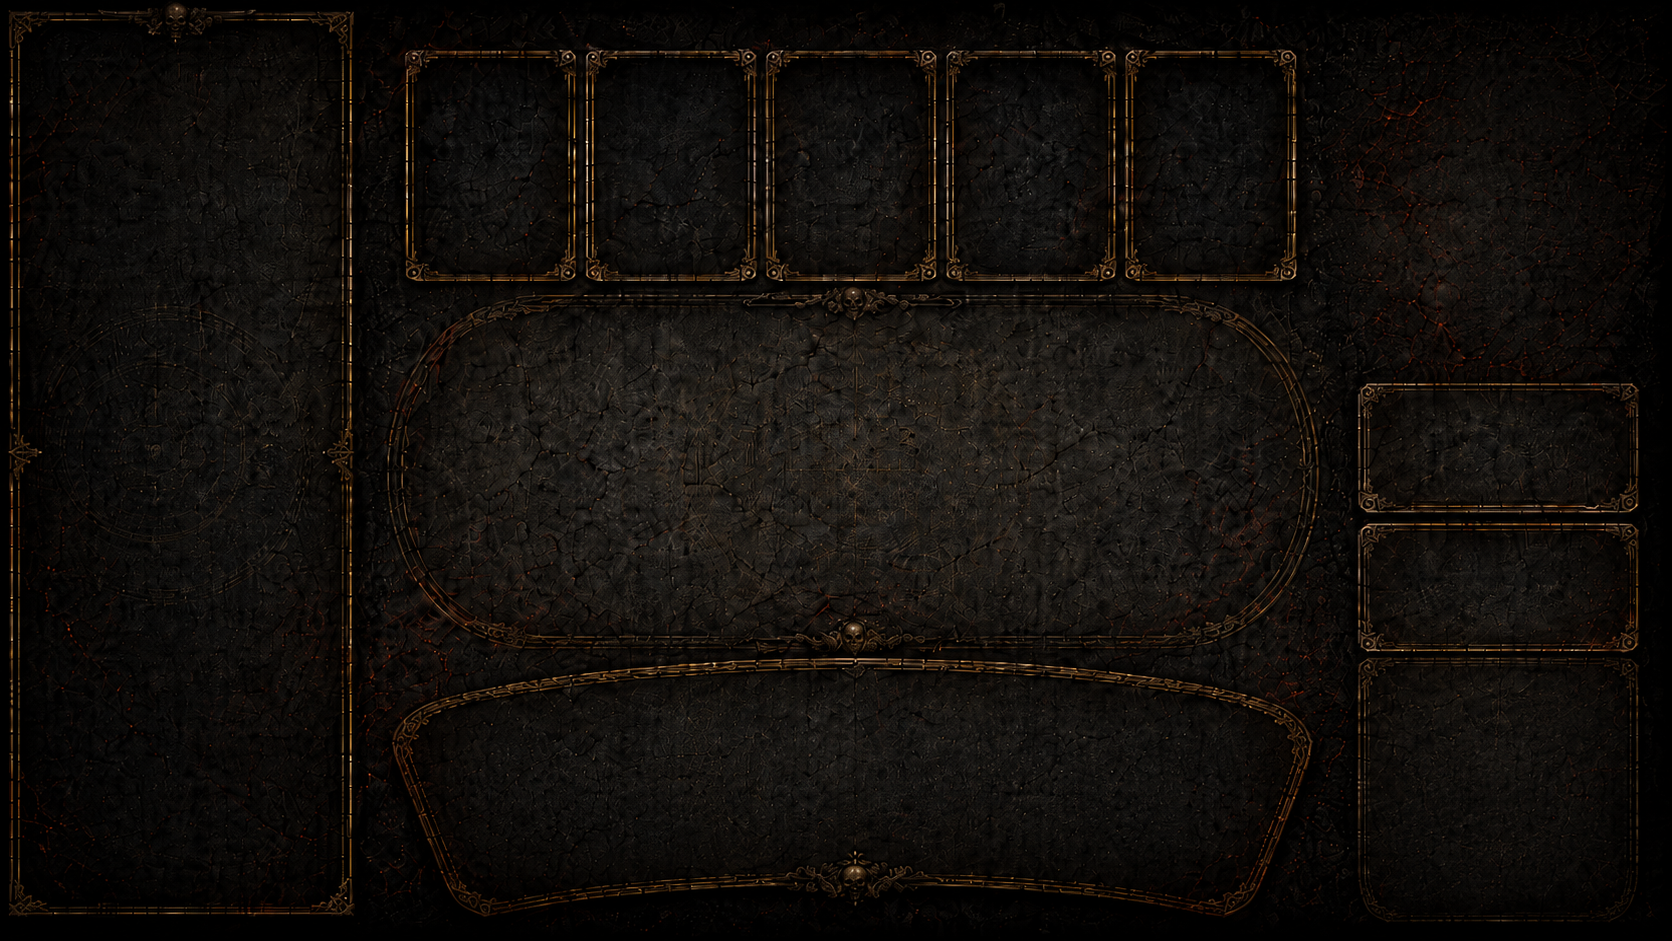
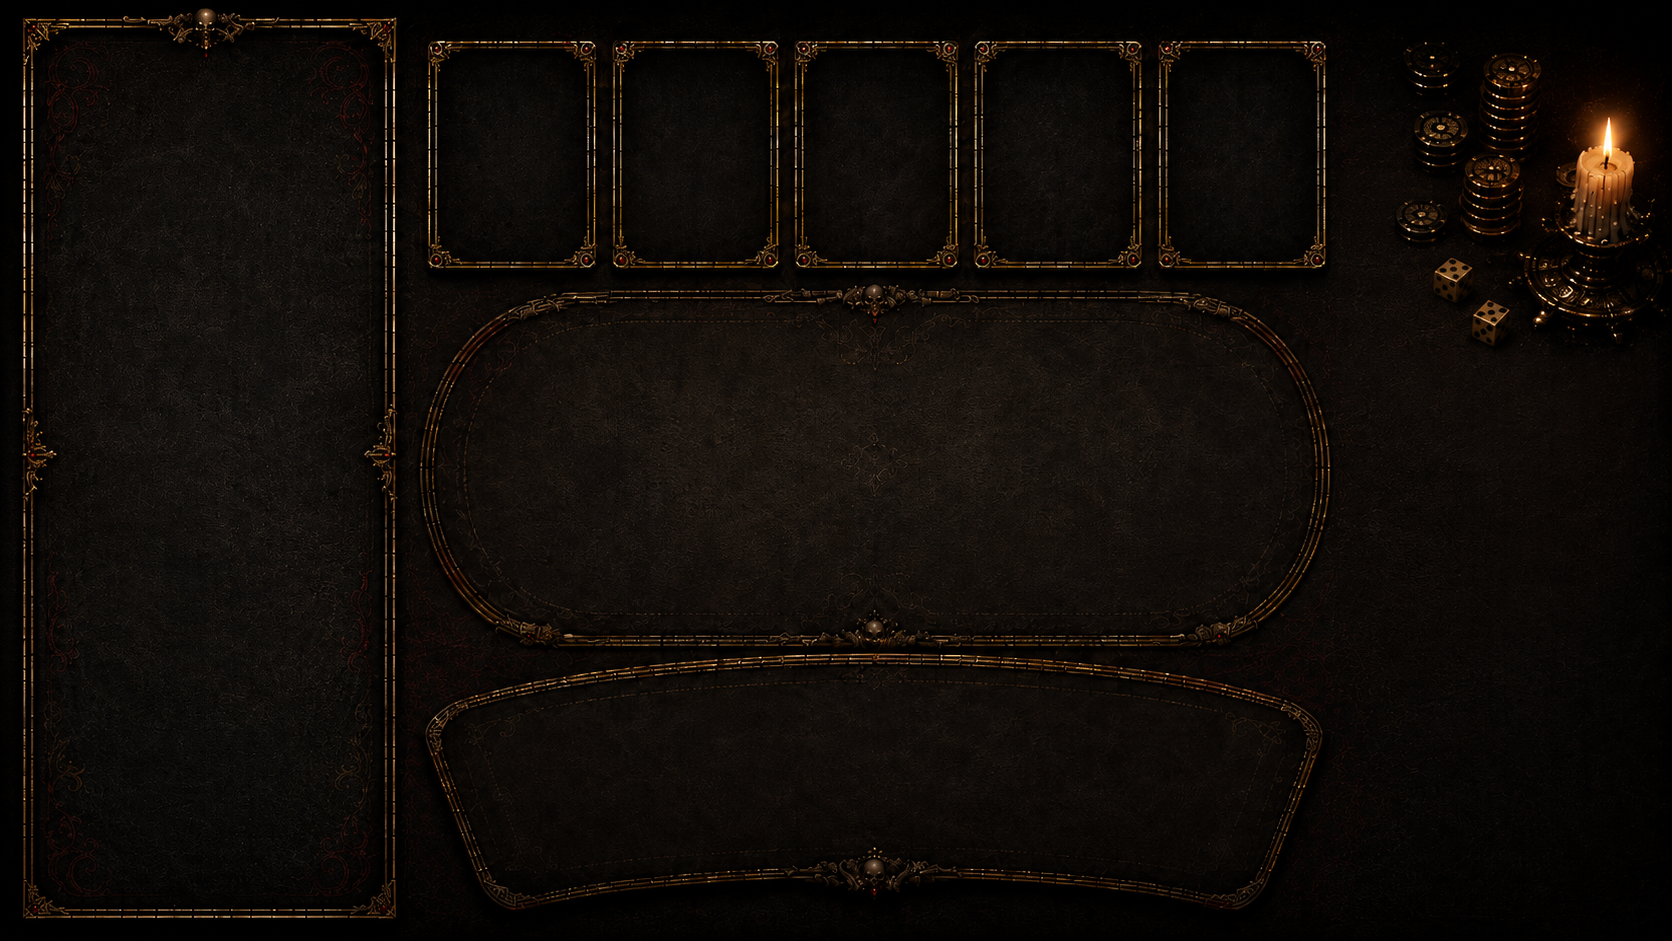
适配新版桌面背景

diff --git a/web/style.css b/web/style.css
@@ -76,7 +76,7 @@ button {
   height: 100%;
   display: block;
   object-fit: cover;
-  filter: brightness(0.82) contrast(1.06) saturate(0.82);
+  filter: brightness(1) contrast(1.03) saturate(0.88);
 }
 
 .game-board::before,
@@ -91,15 +91,12 @@ button {
   opacity: 0.56;
   background:
     radial-gradient(circle at 29% 8%, rgba(255, 188, 87, 0.08), transparent 16%),
-    radial-gradient(circle at 79% 68%, rgba(139, 30, 17, 0.2), transparent 21%),
-    radial-gradient(ellipse at 50% 50%, transparent 0 54%, rgba(0, 0, 0, 0.58) 86%, #000 100%);
+    radial-gradient(circle at 79% 68%, rgba(139, 30, 17, 0.2), transparent 21%);
 }
 
 .game-board.shop-phase::before {
   opacity: 0.14;
   background:
-    linear-gradient(90deg, rgba(0, 0, 0, 0.68), transparent 22%, transparent 75%, rgba(0, 0, 0, 0.72)),
-    linear-gradient(0deg, rgba(0, 0, 0, 0.62), transparent 18%, transparent 84%, rgba(0, 0, 0, 0.56)),
     radial-gradient(ellipse at 55% 60%, rgba(116, 58, 24, 0.3), transparent 42%),
     var(--shop-art) center / cover no-repeat;
   filter: saturate(0.56) brightness(0.34) contrast(1.08);
@@ -108,10 +105,8 @@ button {
 
 .game-board::after {
   z-index: 10;
-  background:
-    linear-gradient(90deg, rgba(0, 0, 0, 0.62), transparent 14%, transparent 83%, rgba(0, 0, 0, 0.72)),
-    linear-gradient(0deg, rgba(0, 0, 0, 0.62), transparent 12%, transparent 86%, rgba(0, 0, 0, 0.62));
-  box-shadow: inset 0 0 160px #000, inset 0 0 24px rgba(220, 127, 48, 0.12);
+  background: none;
+  box-shadow: none;
 }
 
 .frame,
@@ -594,10 +589,10 @@ button {
 
 .joker-zone {
   position: absolute;
-  left: 400px;
-  top: 14px;
-  width: 850px;
-  height: 330px;
+  left: 385px;
+  top: 0;
+  width: 865px;
+  height: 300px;
   z-index: 3;
 }
 
@@ -606,7 +601,7 @@ button {
   grid-template-columns: 1fr auto 1fr;
   align-items: center;
   gap: 15px;
-  height: 44px;
+  height: 40px;
   color: #d8c79a;
   text-align: center;
 }
@@ -625,11 +620,26 @@ button {
 .joker-row {
   display: grid;
   grid-template-columns: repeat(5, 1fr);
-  gap: 14px;
+  gap: 16px;
 }
 
 .joker-row:empty {
-  min-height: 247px;
+  min-height: 220px;
+}
+
+.joker-zone .joker-card {
+  height: 220px;
+}
+
+.joker-zone .owned-ghost-card {
+  border-color: transparent;
+  background: rgba(7, 5, 4, 0.42);
+  box-shadow: none;
+}
+
+.joker-zone .owned-ghost-card::before,
+.joker-zone .owned-ghost-card::after {
+  display: none;
 }
 
 .joker-card {
@@ -1016,7 +1026,7 @@ button {
 }
 
 .joker-count {
-  margin-top: 6px;
+  margin-top: 4px;
   color: #b7a075;
   font-family: Georgia, serif;
   font-size: 20px;
@@ -1037,12 +1047,10 @@ button {
   right: 18px;
   top: 20px;
   height: 230px;
-  border: 2px solid rgba(133, 89, 43, 0.08);
+  border: 2px solid transparent;
   border-radius: 50%;
-  background:
-    radial-gradient(ellipse at 50% 50%, rgba(121, 78, 33, 0.08), transparent 62%),
-    repeating-radial-gradient(ellipse at 50% 50%, transparent 0 22px, rgba(179, 126, 57, 0.025) 23px 24px);
-  box-shadow: inset 0 0 80px rgba(0, 0, 0, 0.34);
+  background: none;
+  box-shadow: none;
 }
 
 .played-cards {
@@ -3621,6 +3629,13 @@ button {
 .surge-card-back-art .surge-asset-image {
   object-fit: cover;
   opacity: 0.9;
+}
+
+.game-table-art.asset-ready ~ .right-panel .deck-area::before,
+.game-table-art.asset-ready ~ .right-panel .deck-area::after,
+.game-table-art.asset-ready ~ .right-panel .coin-pile,
+.game-table-art.asset-ready ~ .right-panel .dice {
+  display: none;
 }
 
 .surge-card-content {